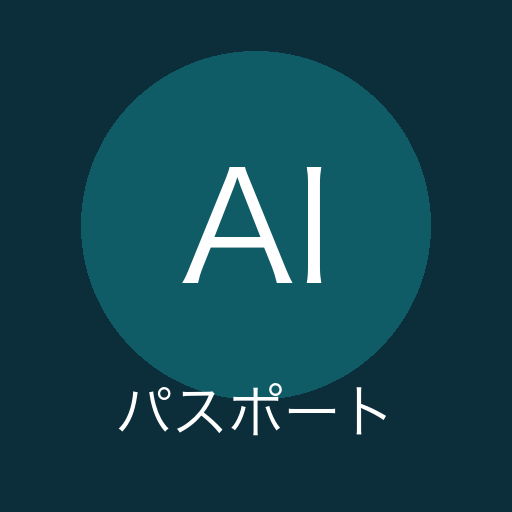
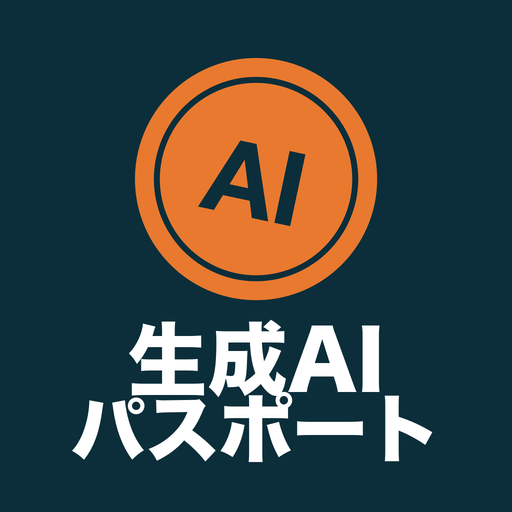
アプリアイコンを本デザインに差し替え(v1.9.2)
仮デザイン(紺地に円+小さな「パスポート」)を、App Store提出に使える
アイコンに置き換えた。

## デザイン
ネイビー地に「合格スタンプ」+「生成AI パスポート」。
試験名の「パスポート」を入国スタンプに見立てたもの。

競合27本のアイコンを調べた結果、7本が文字を敷き詰めた四角で地色は青〜紫が
6本と、検索結果で互いに区別できない状態だった。円形とオレンジを使うことで
形と色の両方で識別できるようにした。年号を入れていないので毎年の作り直しも不要。

文字の有無は実際の検索結果レイアウト(アイコン+アプリ名+サブタイトル)を
組んで比較した。アプリ名が常に隣接するためアイコン内の文字は情報としては
重複するが、文字ありを選択した。

## 生成方法
scripts/make-icons.py が単一ソースから全サイズを書き出す。
個々のPNGを手で編集しない。

  icons/appstore-1024.png     App Store用(アルファなし・角丸なし)
  icons/icon-192.png / 512    PWA
  icons/icon-maskable-512.png PWA maskable(中央80%円に収まるよう74%に縮小)
  icons/apple-touch-icon.png  180px
  ios/.../AppIcon-512@2x.png  Xcode

## 検証
- iOSの角丸マスク(半径=幅の22.4%)を当てて、白文字とスタンプが1画素も
  削られないことを確認
- maskableの安全域(中央80%の円)からのはみ出しも0を確認
- 全出力がアルファなしRGB・規定サイズであることを確認
- シミュレータのホーム画面で実寸表示を確認

アイコンは sw.js の APP_SHELL に含まれるため CACHE_NAME も v15 に上げた。

diff --git a/sw.js b/sw.js
@@ -1,4 +1,4 @@
-const CACHE_NAME = 'genai-passport-v14';
+const CACHE_NAME = 'genai-passport-v15';
 const APP_SHELL = [
   './',
   './index.html',

diff --git a/app.js b/app.js
@@ -1,4 +1,4 @@
-const APP_VERSION = 'v1.9.1';
+const APP_VERSION = 'v1.9.2';
 
 const CHAPTERS = {
   1: "第1章 AI(人工知能)",

diff --git a/scripts/make-icons.py b/scripts/make-icons.py
@@ -1,0 +1,92 @@
+#!/usr/bin/env python3
+# -*- coding: utf-8 -*-
+"""アプリアイコンを1ソースから全サイズ書き出す。
+    python3 scripts/make-icons.py
+
+デザイン: ネイビー地に「合格スタンプ」+「生成AI パスポート」。
+試験名の「パスポート」を入国スタンプに見立てたもの。競合は文字を敷き詰めた
+四角ばかりなので、円形とオレンジで検索結果での識別性を稼ぐ狙い。
+
+出力:
+  icons/appstore-1024.png                  App Store用(アルファなし・角丸なし)
+  icons/icon-192.png / icon-512.png        PWA用
+  icons/icon-maskable-512.png              PWA maskable用(中央80%に収める)
+  icons/apple-touch-icon.png               180px
+  ios/.../AppIcon.appiconset/AppIcon-512@2x.png   Xcode用(1024)
+"""
+from PIL import Image, ImageDraw, ImageFont
+import os
+
+ROOT = os.path.dirname(os.path.dirname(os.path.abspath(__file__)))
+ICONS = os.path.join(ROOT, 'icons')
+APPICON = os.path.join(ROOT, 'ios/App/App/Assets.xcassets/AppIcon.appiconset')
+
+NAVY, ORANGE, WHITE = (11, 46, 58), (232, 121, 47), (255, 255, 255)
+JP = '/System/Library/Fonts/ヒラギノ角ゴシック W8.ttc'
+LATIN = '/System/Library/Fonts/HelveticaNeue.ttc'
+
+
+def fit_font(path, text, max_w, start, index=None):
+    """text が max_w に収まる最大サイズのフォントを返す"""
+    size = start
+    while size > 8:
+        f = ImageFont.truetype(path, size) if index is None else ImageFont.truetype(path, size, index=index)
+        if f.getbbox(text)[2] - f.getbbox(text)[0] <= max_w:
+            return f
+        size -= 4
+    return f
+
+
+def stamp(canvas, cx, cy, r, tilt=-12):
+    """回転させた合格スタンプを透過レイヤーで返す。
+    円と文字を4倍解像度で描いてから縮小し、回転時のジャギを抑える。"""
+    SS = 4
+    L = Image.new('RGBA', (canvas * SS, canvas * SS), (0, 0, 0, 0))
+    d = ImageDraw.Draw(L)
+    CX, CY, R = cx * SS, cy * SS, r * SS
+    d.ellipse([CX - R, CY - R, CX + R, CY + R], fill=ORANGE + (255,))
+    ring = int(R * 0.845)
+    d.ellipse([CX - ring, CY - ring, CX + ring, CY + ring], outline=NAVY + (255,), width=int(R * 0.05))
+    # AIは内側のリングに触れないよう少し小さめに置く
+    d.text((CX, CY), 'AI', font=ImageFont.truetype(LATIN, int(R * 0.85), index=1),
+           fill=NAVY + (255,), anchor='mm')
+    L = L.rotate(tilt, resample=Image.BICUBIC, center=(CX, CY))
+    return L.resize((canvas, canvas), Image.LANCZOS)
+
+
+def build(canvas=1024, scale=1.0):
+    """scale<1 で全体を縮めて余白を増やす(maskable用)"""
+    im = Image.new('RGB', (canvas, canvas), NAVY)
+    u = canvas / 1024 * scale
+    cx = canvas // 2
+
+    r = int(242 * u)
+    st = stamp(canvas, cx, int(canvas / 2 - 154 * u), r)
+    im.paste(st, (0, 0), st)
+
+    d = ImageDraw.Draw(im)
+    # 左右に十分な余白を残す。文字が角丸マスクに削られないため
+    max_w = int(canvas * 0.74 * scale)
+    f1 = fit_font(JP, '生成AI', max_w, int(160 * u))
+    f2 = fit_font(JP, 'パスポート', max_w, int(160 * u))
+    d.text((cx, int(canvas / 2 + 206 * u)), '生成AI', font=f1, fill=WHITE, anchor='mm')
+    d.text((cx, int(canvas / 2 + 344 * u)), 'パスポート', font=f2, fill=WHITE, anchor='mm')
+    return im
+
+
+def save(img, path, size):
+    out = img.resize((size, size), Image.LANCZOS).convert('RGB')  # アルファを持たせない
+    out.save(path, 'PNG')
+    print(f'  {os.path.relpath(path, ROOT)}  ({size}px)')
+
+
+if __name__ == '__main__':
+    base = build()
+    print('書き出し:')
+    save(base, os.path.join(ICONS, 'appstore-1024.png'), 1024)
+    save(base, os.path.join(ICONS, 'icon-512.png'), 512)
+    save(base, os.path.join(ICONS, 'icon-192.png'), 192)
+    save(base, os.path.join(ICONS, 'apple-touch-icon.png'), 180)
+    # maskableは中央80%だけが必ず見える前提なので、全体を縮めて余白を足す
+    save(build(scale=0.74), os.path.join(ICONS, 'icon-maskable-512.png'), 512)
+    save(base, os.path.join(APPICON, 'AppIcon-512@2x.png'), 1024)

diff --git a/CLAUDE.md b/CLAUDE.md
@@ -145,7 +145,30 @@ function on(sel, ev, fn){
 | 5 | テキスト生成AIのプロンプト制作と実例 — LM/LLM, プロンプティング, ビジネス応用, 不得意なこと |
 
 ### PWA
-`manifest.json` + `sw.js`。Service Workerはアプリシェル(html/css/js/manifest/icons)をcache-first、`questions.json`はnetwork-firstで配信。**Web版のみで有効**(iOSアプリでは登録をスキップ)。アイコンは仮デザイン(紺地にAIロゴ)で、App Store提出には1024×1024・アルファなしの作り直しが必要。
+`manifest.json` + `sw.js`。Service Workerはアプリシェル(html/css/js/manifest/icons)をcache-first、`questions.json`はnetwork-firstで配信。**Web版のみで有効**(iOSアプリでは登録をスキップ)。
+
+## アイコン
+
+**`scripts/make-icons.py` が単一ソースから全サイズを書き出す。** 個々のPNGを手で編集しないこと。
+
+```bash
+python3 scripts/make-icons.py
+```
+
+| 出力先 | 用途 |
+|---|---|
+| `icons/appstore-1024.png` | App Store Connectへのアップロード用。**アルファなし・角丸なし** |
+| `icons/icon-192.png` / `icon-512.png` | PWA |
+| `icons/icon-maskable-512.png` | PWA maskable。中央80%の円に収まるよう全体を74%に縮めている |
+| `icons/apple-touch-icon.png` | 180px |
+| `ios/.../AppIcon.appiconset/AppIcon-512@2x.png` | Xcode(1024の単一スロット) |
+
+デザインは**ネイビー地に合格スタンプ + 「生成AI パスポート」**。試験名の「パスポート」を入国スタンプに見立てたもの。競合27本は文字を敷き詰めた四角ばかりなので、円形とオレンジ(`--orange`)で検索結果での識別性を稼いでいる。
+
+注意点:
+- **文字は幅の74%までに収める。** iOSの角丸マスク(半径は幅の約22.4%)に削られないため
+- アイコンは `sw.js` の `APP_SHELL` に含まれるので、**差し替えたら `CACHE_NAME` も上げる**
+- 変更後は `npm run ios:sync` を実行しないとアプリ側に反映されない
 
 ## Content policy (問題追加時は必ず遵守)
 

diff --git a/docs/appstore-listing.md b/docs/appstore-listing.md
@@ -91,7 +91,7 @@ AIパスポート
 | プライバシーポリシーURL | 未作成(GitHub Pagesに1ページ用意する) |
 | サポートURL | 未作成 |
 | スクリーンショット | iPhone 6.9インチ(1320×2868)必須。iPad対応なら13インチも必須 |
-| アイコン | 1024×1024・**アルファチャンネルなし**。現行の512 RGBAは流用不可 |
+| アイコン | `icons/appstore-1024.png` を提出。1024×1024・アルファなし・角丸なし |
 
 ## 未確定・要確認
 
@@ -101,8 +101,8 @@ AIパスポート
 - ~~Capacitor化(SW撤去/Preferences移行/SafeArea)~~ → **完了**(2026-08-16)
 - ~~審査ガイドライン4.2対策(ローカル通知/Haptics/統計画面)~~ → **完了**(2026-08-16)
 - **WKWebViewのJSダイアログが英語表記**(下記)
+- ~~アイコン1024×1024(アルファなし)の作成~~ → **完了**(2026-08-17)。`scripts/make-icons.py` で生成
 - プライバシーポリシー / サポートページの作成
-- アイコン1024×1024(アルファなし)の作成
 - スクリーンショット(iPhone 6.9インチ)の作成
 - Apple Developer Program 登録 → 署名設定 → 申請
 
